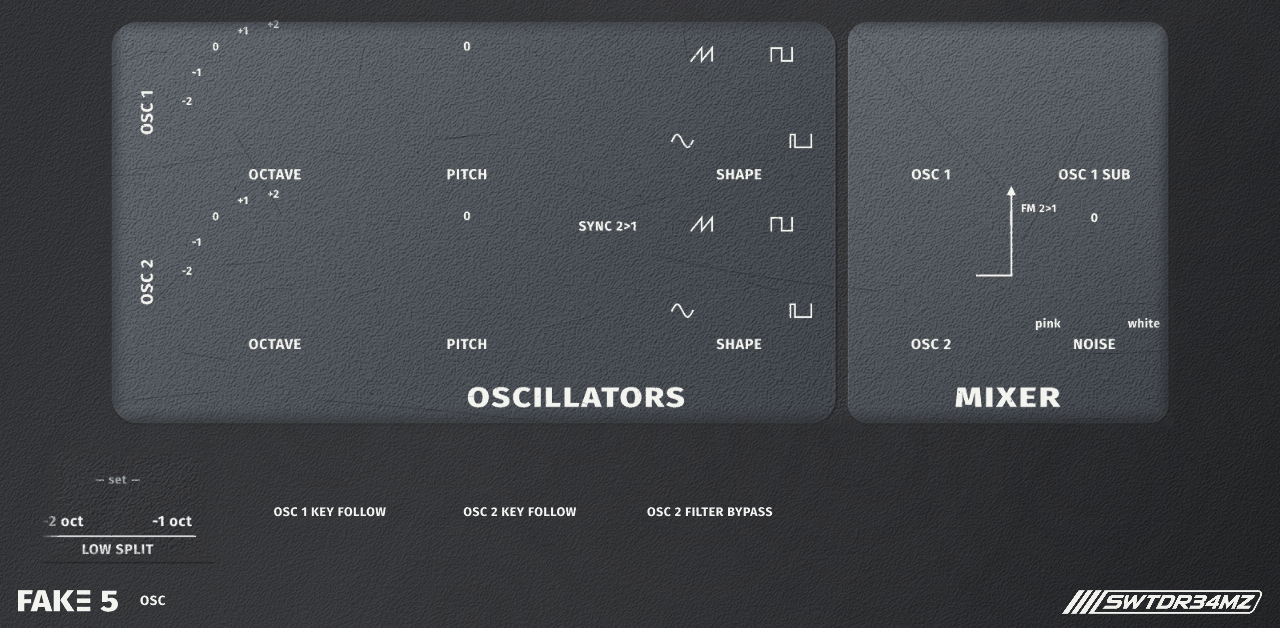
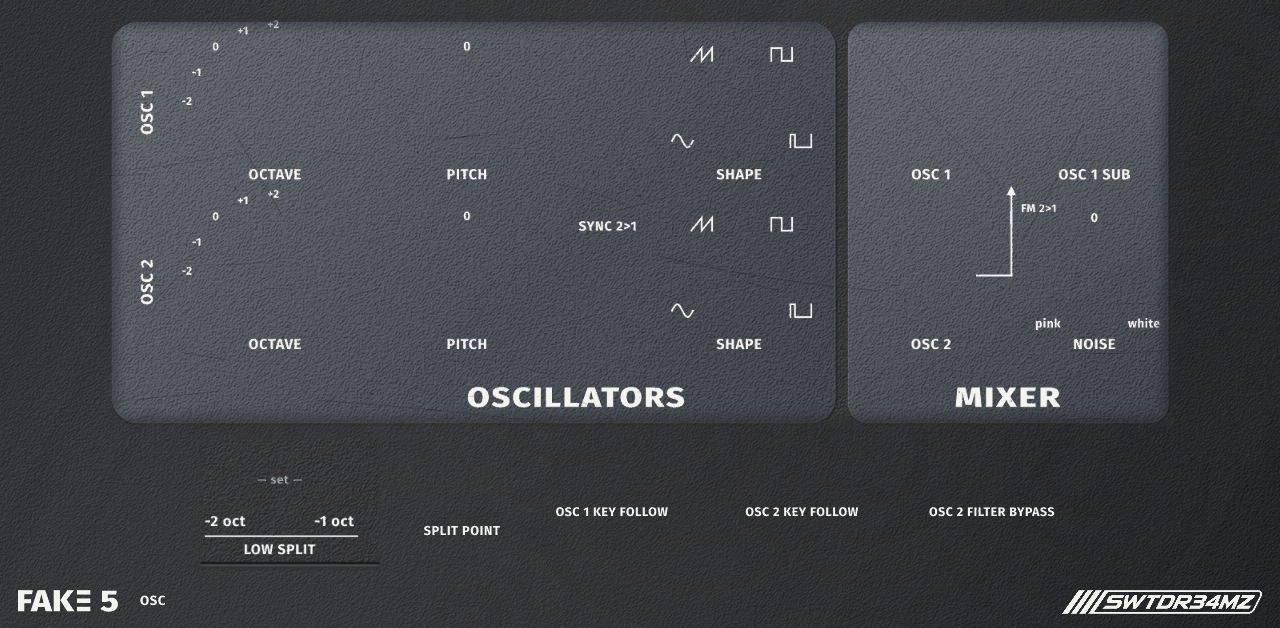
MPC: OSC's bottom row in the middle with SPLIT POINT beside LOW SPLIT (its edges let in less); VOICE: SPREAD, VINTAGE | VOLUME, OVERDRIVE, GLIDE RATE, PROGRAM VOL
Claude-Session: https://claude.ai/code/session_019gwqiMn3zWB1GviCJVVuv5

diff --git a/mpc/skin/render_skin.cpp b/mpc/skin/render_skin.cpp
@@ -7,13 +7,13 @@
  * VINTAGE, unison, glide) is drawn in the same hand. A choice is a row of buttons, one a value (the arp's modes, the
  * glide's), or a knob with a little display over it (the effect's type) or a display alone (the LFOs' destinations):
  *
- *   OSC      OSCILLATORS, MIXER; LOW SPLIT bottom left, the keys and osc 2's bypass beside it
+ *   OSC      OSCILLATORS, MIXER; under them LOW SPLIT and its SPLIT POINT, the keys and osc 2's bypass
  *   FILTER   FILTER, ENVELOPES (+ key amount, the envelopes' delays, env 1's aux destination, env repeat)
  *   LFO      LFO 1: GLOBAL | LFO 2: PER VOICE  /  MOD 1-8  /  MOD 9-16 (the matrix on the display)
  *   FX       EFFECT, REVERB
  *   ARP      CLOCK; ARPEGGIATOR (on, relatch, hold, octaves, repeats); MODE
  *   VOICE    GLIDE RATE, VINTAGE, VOLUME, OVERDRIVE, VOICE SPREAD, PROGRAM VOL; unison's and glide's settings; the
- *            VST's GLIDE, UNISON, HOLD; VOICES, QUALITY; the bend, the split point
+ *            VST's GLIDE, UNISON, HOLD; VOICES, QUALITY; the bend
  *
  * Each screen is drawn at the MPC's 1280 x 628 and cut up: its background, and every control at every value it can
  * take (a knob's film strip, a button's look for each value with the value a press gives, an LED's on and off).
@@ -71,6 +71,7 @@ struct Crop {
     Rectangle<float> src;                /* the VST panel's part shown */
     float s = 1.0f;
     Point<float> off;                    /* its top left on the page */
+    float fade = 28.0f;                  /* its edges let into the page over this many pixels */
 };
 struct Screen {
     String name;
@@ -126,7 +127,7 @@ bool bipolarOf(const String &id)
 struct Builder {
     Screen s;
     /* the VST's panel, its part src at scale sc, its top left at (x, y) on the page */
-    void vst(Rectangle<float> src, float sc, float x, float y) { s.crops.push_back({src, sc, {x, y}}); }
+    void vst(Rectangle<float> src, float sc, float x, float y, float fade = 28.0f) { s.crops.push_back({src, sc, {x, y}, fade}); }
     Point<float> at(float vx, float vy) const
     {
         auto &c = s.crops.back();
@@ -253,14 +254,16 @@ std::vector<Screen> screens()
         b.vK(774, VO1, "sub");
         b.vK(672, VO2, "o2_level");
         b.vK(774, VO2, "noise");
-        /* bottom left: LOW SPLIT, the VST's own; right of it the program menu's keys and OSC 2's way round the filter */
-        b.vst({596, 566, 108, 80}, 1.7f, 36, 436);
+        /* the bottom row, in the middle: LOW SPLIT (the VST's own) and its SPLIT POINT; the program menu's keys and
+         * OSC 2's way round the filter */
+        b.vst({596, 566, 108, 72}, 1.7f, 198, 436, 6.0f);
         b.vB(612, 592, "split2");
         b.vB(676, 592, "split1");
         const float ky = b.at(0, 592).y;
-        b.B(330, ky, "o1_key", "OSC 1 KEY FOLLOW");
-        b.B(520, ky, "o2_key", "OSC 2 KEY FOLLOW");
-        b.B(710, ky, "o2_bypass", "OSC 2 FILTER BYPASS");
+        b.K(462, ky + 2, "split_point", "SPLIT POINT");
+        b.B(612, ky, "o1_key", "OSC 1 KEY FOLLOW");
+        b.B(802, ky, "o2_key", "OSC 2 KEY FOLLOW");
+        b.B(992, ky, "o2_bypass", "OSC 2 FILTER BYPASS");
         ps.push_back(b.s);
     }
     /* ---------------------------------------------------------------------- FILTER: FILTER, ENVELOPES (the VST's) */
@@ -390,8 +393,8 @@ std::vector<Screen> screens()
     {
         Builder b;
         b.s.name = "VOICE";
-        const char *kn[6][2] = {{"glide_rate", "GLIDE RATE"}, {"vintage", "VINTAGE"}, {"vol", "VOLUME"},
-                                {"overdrive", "OVERDRIVE"}, {"spread", "VOICE SPREAD"}, {"pgm_vol", "PROGRAM VOL"}};
+        const char *kn[6][2] = {{"spread", "VOICE SPREAD"}, {"vintage", "VINTAGE"}, {"vol", "VOLUME"},
+                                {"overdrive", "OVERDRIVE"}, {"glide_rate", "GLIDE RATE"}, {"pgm_vol", "PROGRAM VOL"}};
         for (int i = 0; i < 6; i++)
             b.K(140.0f + 200.0f * (float)i, 78, kn[i][0], kn[i][1], 84.0f);
         b.s.vlines.push_back({440.0f, {30.0f, 150.0f}});
@@ -413,9 +416,8 @@ std::vector<Screen> screens()
         b.vB(268, 588, "hold");
         b.R({{560, 448}, {680, 448}}, "voices", {"5 VOICES", "10 VOICES"});
         b.R({{560, 528}, {680, 528}}, "quality", {"ECO (2x)", "HIGH (4x)"});
-        b.K(860, 486, "pb_up", "BEND UP");
-        b.K(1010, 486, "pb_down", "BEND DOWN");
-        b.K(1160, 486, "split_point", "SPLIT POINT");
+        b.K(900, 486, "pb_up", "BEND UP");
+        b.K(1100, 486, "pb_down", "BEND DOWN");
         ps.push_back(b.s);
     }
     return ps;
@@ -469,7 +471,7 @@ void drawScreen(Graphics &g, const Screen &pg)
             pg2.setImageResamplingQuality(Graphics::highResamplingQuality);
             pg2.drawImage(vstPanel, 0, 0, w, h, src.getX(), src.getY(), src.getWidth(), src.getHeight());
         }
-        const float F = 28.0f;
+        const float F = cr.fade;
         for (int y = 0; y < h; y++)
             for (int x = 0; x < w; x++) {
                 float d = jmin(jmin((float)x, (float)(w - 1 - x)), jmin((float)y, (float)(h - 1 - y)));

diff --git a/mpc/skin/make_skin.py b/mpc/skin/make_skin.py
@@ -59,7 +59,7 @@ def mpc(pid):
 PAGES = [
     ("OSC", [("OSC", [(["o1_oct", "o1_pitch", "o1_shape", "o1_level"], False),
                       (["o2_oct", "o2_pitch", "o2_shape", "o2_level"], False),
-                      (["sub", "noise"], False),
+                      (["sub", "noise", "split_point"], False),
                       ([], False)])]),
     ("FILTER", [("FILTER", [(["cutoff", "reso", "drive", "keyamt"], False),
                             (["e1_att", "e1_dec", "e1_sus", "e1_rel"], False),
@@ -81,9 +81,9 @@ PAGES = [
                     (["rev_tone"], False)])]),
     ("ARP", [("ARP", [(["bpm", "divide", "arp_oct", "arp_repeat"], False),
                       (["arp_mode"], False)])]),
-    ("VOICE", [("VOICE", [(["glide_rate", "vintage", "vol", "overdrive"], False),
-                          (["spread", "pgm_vol", "uni_voices", "uni_detune"], False),
-                          (["uni_keymode", "o1_glide", "o2_glide", "split_point"], False),
+    ("VOICE", [("VOICE", [(["spread", "vintage", "vol", "overdrive"], False),
+                          (["glide_rate", "pgm_vol", "uni_voices", "uni_detune"], False),
+                          (["uni_keymode", "o1_glide", "o2_glide"], False),
                           (["pb_up", "pb_down"], False)])]),
 ]
 # Program (Track) mode: the knobs as the MPC's own program knobs, bottom left Q-Link 1

diff --git a/mpc/plugin/README.md b/mpc/plugin/README.md
@@ -27,12 +27,12 @@ Sechs Seiten auf den Funktionstasten; manche haben eine zweite Hälfte: **die Ta
 
 | Taste | Was drauf ist |
 | --- | --- |
-| **OSC** | OSCILLATORS und MIXER wie am Take 5 (Octave mit seinen LEDs, Pitch, Shape, Sync 2>1, Osc 1, Sub, Osc 2, FM 2>1, Noise) · unten links LOW SPLIT, daneben Key Follow 1 und 2, Osc 2 Bypass |
+| **OSC** | OSCILLATORS und MIXER wie am Take 5 (Octave mit seinen LEDs, Pitch, Shape, Sync 2>1, Osc 1, Sub, Osc 2, FM 2>1, Noise) · darunter, mittig: LOW SPLIT mit SPLIT POINT, Key Follow 1 und 2, Osc 2 Bypass |
 | **FILTER** | FILTER und ENVELOPES wie am Take 5 (Cutoff, Resonance, Drive, beide Hüllkurven, Env Routing) · darunter: Key Amount, Delays, Aux-Ziel (mit Anzeige), Envelope Repeat (ein Taster je Einstellung) |
 | **LFO** | LFO 1: GLOBAL und LFO 2: PER VOICE nebeneinander: Frequency, Amount, Shape (ein Regler, die Formen drumherum), Clk Sync, Key Reset, Slew, das Ziel auf einer Anzeige · nochmal: MOD 1-8 auf dem Display · nochmal: MOD 9-16 (antippen und ziehen, doppelt antippen für die Liste) |
 | **FX** | EFFECT und REVERB wie am Take 5; über TYPE steht der gewählte Effekt |
 | **ARP** | CLOCK (BPM, Clock Divide, mit Anzeigen) · ARPEGGIATOR (On, Relatch, Hold, Oktaven, Wiederholungen) · MODE: ein Taster je Modus |
-| **VOICE** | Glide Rate, Vintage, Volume, Overdrive, Voice Spread, Program Vol · Unison (Stimmen, Detune, Key Mode als Taster, Retrigger) und Glide (Osc 1/2 Glide, Modus als Taster) · Glide, Unison, Hold · 5/10 Stimmen, Qualität · Bend, Split Point |
+| **VOICE** | Voice Spread, Vintage · Volume, Overdrive, Glide Rate, Program Vol · Unison (Stimmen, Detune, Key Mode als Taster, Retrigger) und Glide (Osc 1/2 Glide, Modus als Taster) · Glide, Unison, Hold · 5/10 Stimmen, Qualität · Bend |
 
 Ein Knopf wird mit dem Finger hoch und runter gezogen oder mit seinem Q-Link gedreht; zweimal tippen öffnet den
 großen Regler der MPC (bei einer Auswahl die Liste). Ein Taster schaltet um; in einer Reihe Taster (je einer pro Einstellung) leuchtet der gewählte. Die Q-Links
